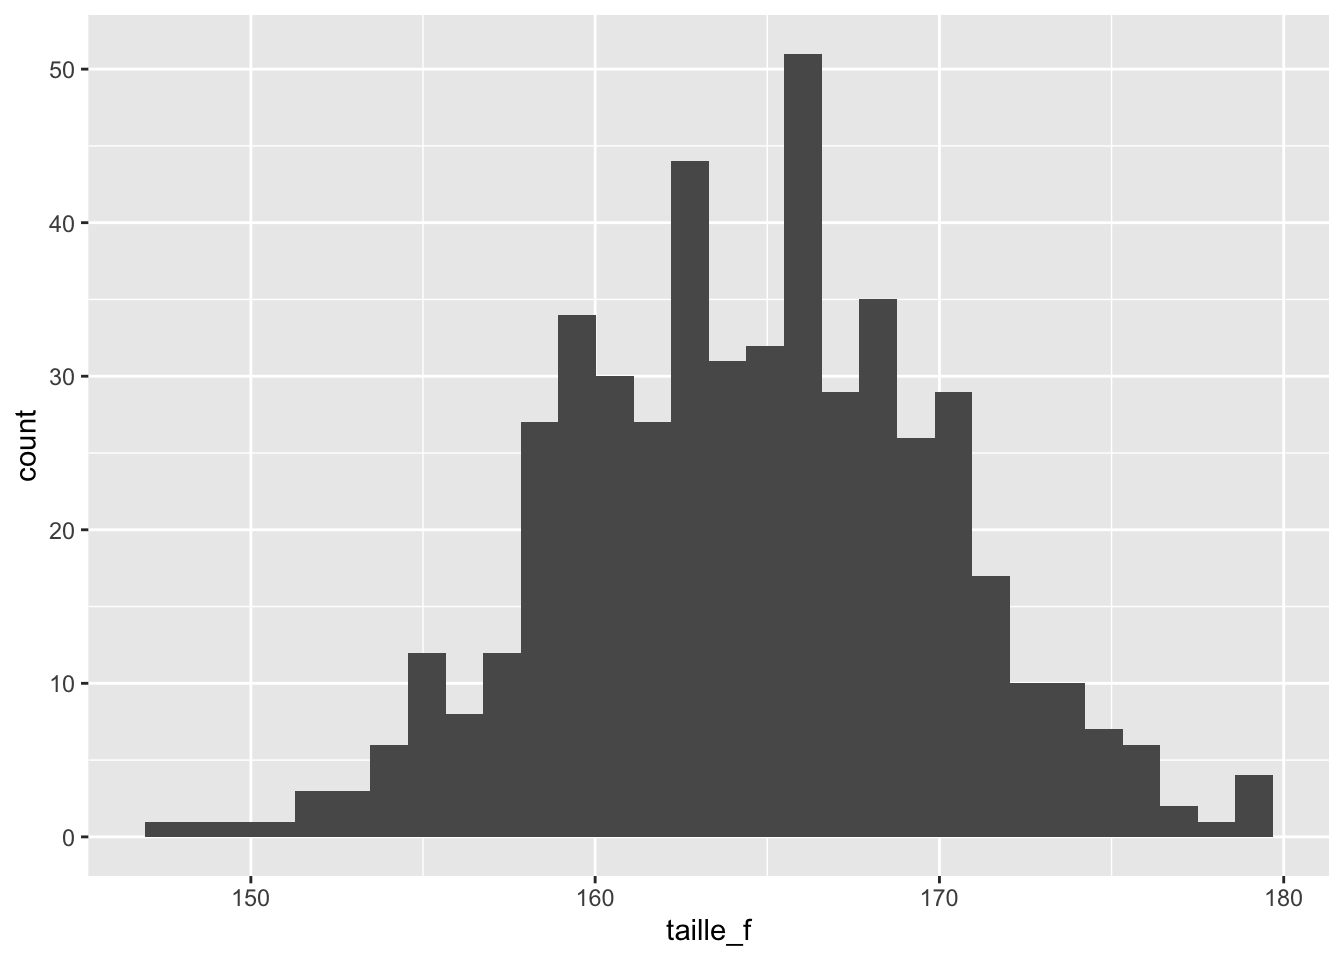
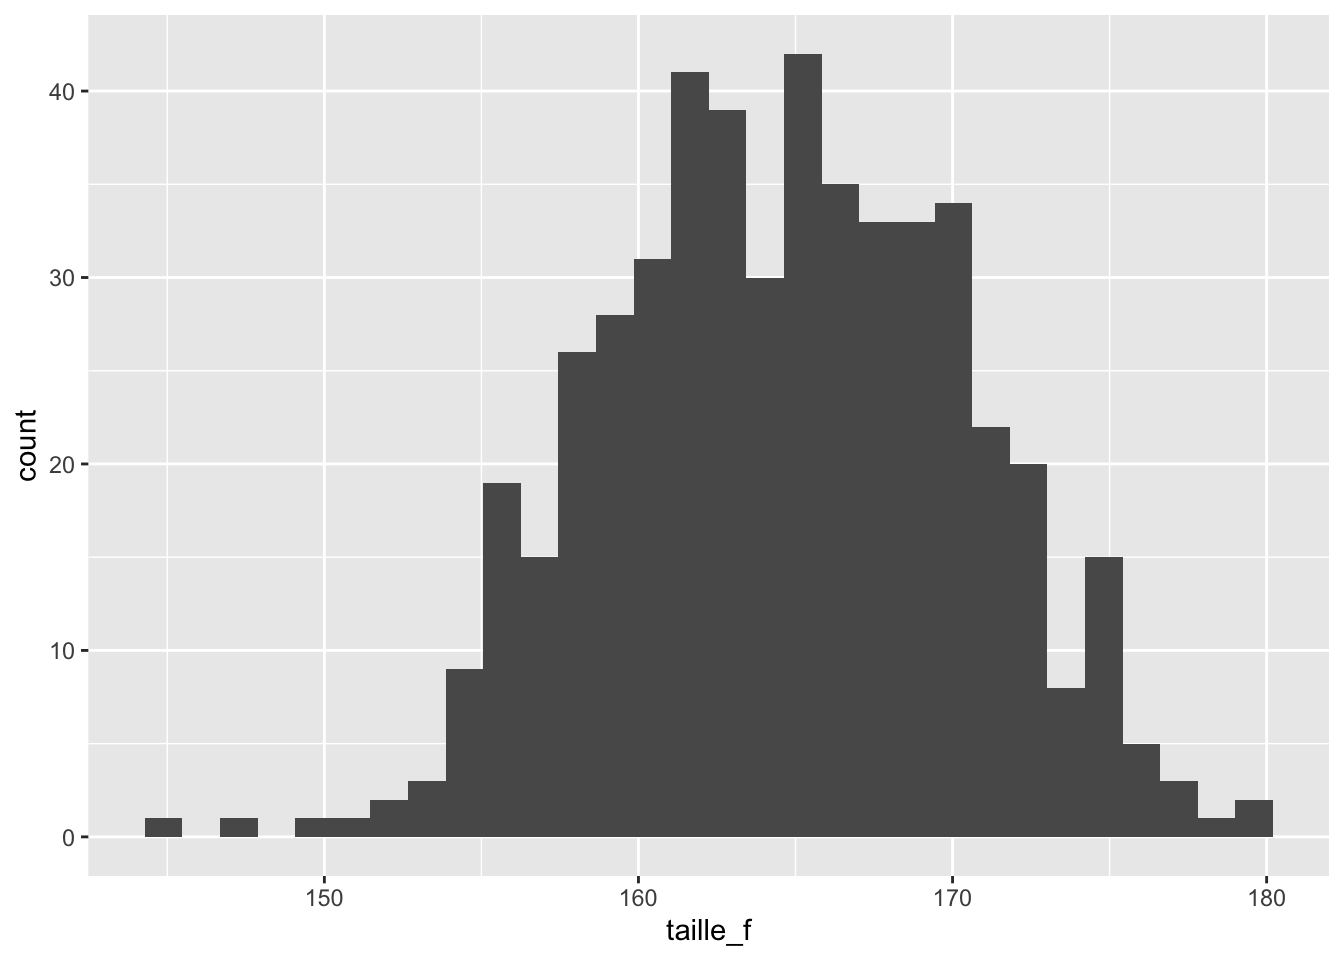
session 5 v4

diff --git a/index.html b/index.html
@@ -1709,7 +1709,7 @@ Attention
 <span id="cb99-5"><a href="#cb99-5" aria-hidden="true" tabindex="-1"></a></span>
 <span id="cb99-6"><a href="#cb99-6" aria-hidden="true" tabindex="-1"></a><span class="fu">head</span>(taille_f)</span></code><button title="Copy to Clipboard" class="code-copy-button"><i class="bi"></i></button></pre></div>
 <div class="cell-output cell-output-stdout">
-<pre><code>[1] 167.2715 166.1385 163.9286 159.3777 162.2002 169.0654</code></pre>
+<pre><code>[1] 166.9298 165.1365 162.7374 156.5550 165.8756 162.0821</code></pre>
 </div>
 <div class="sourceCode cell-code" id="cb101"><pre class="sourceCode r code-with-copy"><code class="sourceCode r"><span id="cb101-1"><a href="#cb101-1" aria-hidden="true" tabindex="-1"></a><span class="co"># stocker taille_f comme objet de type 'data.frame'</span></span>
 <span id="cb101-2"><a href="#cb101-2" aria-hidden="true" tabindex="-1"></a>taille_f <span class="ot">&lt;-</span> <span class="fu">as.data.frame</span>(taille_f)</span>
